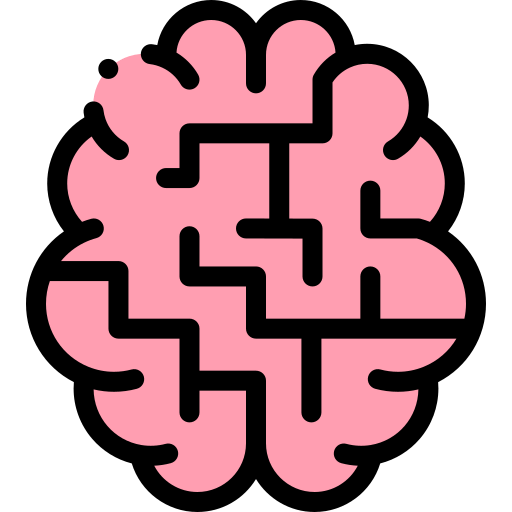
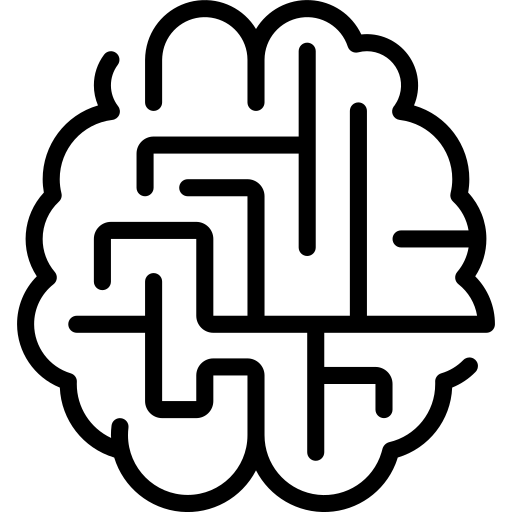
new services section

diff --git a/src/components/Service.tsx b/src/components/Service.tsx
@@ -1,0 +1,109 @@
+import React, { useState } from "react";
+import "../style/Components.css";
+
+interface Service {
+  image: string;
+  title: string;
+  text: string;
+  black: boolean;
+  from: number;
+  features: string[];
+}
+
+const Service: React.FC<Service> = ({
+  image,
+  from,
+  black,
+  features,
+  text,
+  title,
+}) => {
+  const [seeMoreDropDown, setSeeMoreDropDown] = useState(false);
+
+  return (
+    <div className={` ${black ? "text-gray-200" : "text-gray-800"}`}>
+      <img
+        className={`max-w-[20ch] mx-auto mt-20 transition-all duration-300 ${
+          seeMoreDropDown ? "max-w-[10ch]" : ""
+        }`}
+        src={image}
+        alt="webistes-landing-pages-services-icon"
+      />
+      <h1 className="text-3xl uppercase my-10 text-center font-extrabold">
+        {title}
+      </h1>
+      <p className="my-5 text-xs">{text}</p>
+      {seeMoreDropDown ? (
+        <div className="see-more-div">
+          {features.map((feature: string, index: number) => (
+            <li key={index} className="flex items-center gap-2 text-xs">
+              <svg
+                xmlns="http://www.w3.org/2000/svg"
+                fill="none"
+                viewBox="0 0 24 24"
+                strokeWidth={1.5}
+                stroke="currentColor"
+                className="w-3 h-3 text-green-600"
+              >
+                <path
+                  strokeLinecap="round"
+                  strokeLinejoin="round"
+                  d="M9 12.75L11.25 15 15 9.75M21 12a9 9 0 11-18 0 9 9 0 0118 0z"
+                />
+              </svg>
+              {feature}
+            </li>
+          ))}
+          <p className="my-3 text-sm">
+            From <span className="font-bold">{from}AUD</span>
+          </p>
+        </div>
+      ) : (
+        ""
+      )}
+      <div
+        className={`left-0 h-36 ${
+          black ? "bg-black" : "bg-white"
+        } px-20 bottom-0 absolute w-full`}
+      >
+        {seeMoreDropDown ? (
+          <div className="flex gap-20">
+            <button
+              onClick={() => setSeeMoreDropDown(!seeMoreDropDown)}
+              className={`py-2 w-full px-4 border transition-all duration-300 active:scale-95 ${
+                black
+                  ? "border-white hover:bg-white hover:text-black"
+                  : "border-black hover:bg-black hover:text-white"
+              }`}
+            >
+              {seeMoreDropDown ? "See Less" : "See More"}
+            </button>
+            <button
+              onClick={() => setSeeMoreDropDown(!seeMoreDropDown)}
+              className={`py-2 w-full px-4 border transition-all duration-300 active:scale-95 ${
+                black
+                  ? "border-white hover:bg-white hover:text-black"
+                  : "border-black hover:bg-black hover:text-white"
+              }`}
+            >
+              Contact Me
+            </button>
+          </div>
+        ) : (
+          <button
+            onClick={() => setSeeMoreDropDown(!seeMoreDropDown)}
+            className={`py-2 w-full px-4 border transition-all duration-300 active:scale-95 ${
+              black
+                ? "border-white hover:bg-white hover:text-black"
+                : "border-black hover:bg-black hover:text-white"
+            }`}
+          >
+            {seeMoreDropDown ? "See Less" : "See More"}
+          </button>
+        )}
+      </div>
+    </div>
+  );
+};
+
+export default Service;

diff --git a/src/components/Sections/Services.tsx b/src/components/Sections/Services.tsx
@@ -4,7 +4,7 @@ import React from "react";
 import "../../style/Components.css";
 
 // Components
-import PricingCard from "../PricingCard";
+import Service from "../Service";
 
 // Media
 import rubik from "../../resources/rubik.png";
@@ -14,27 +14,37 @@ const Services: React.FC = () => {
   return (
     <div
       id="services"
-      className="relative flex flex-col lg:flex-row min-h-screen w-full"
+      className="relative flex flex-col lg:flex-row h-screen w-full"
     >
-      <p className="absolute w-full text-center mt-10 text-5xl font-extrabold uppercase services-text">
+      <p className="absolute w-full text-center mt-10 font-extrabold uppercase services-text">
         Services
       </p>
-      <div className="w-full lg:w-1/2 bg-black min-h-screen pt-24 pb-10 p-5 lg:p-20">
-        <PricingCard
+      <div className="w-full relative lg:w-1/2 bg-black min-h-screen pt-24 pb-10 p-5 lg:p-20">
+        <Service
           image={rubik}
+          from={890}
           title="Websites and Landing pages"
+          black={true}
           features={[
             "Landing Pages",
             "For small businesses",
             "Start-ups",
             "Single Page Applications",
           ]}
-          text="Start your online presence with our Basic Tier, perfect for creating user-friendly websites and eye-catching landing pages."
+          text="Begin establishing your online presence with
+           a stunning landing page, a single-page web application,
+            or a comprehensive website featuring multiple views to
+             elegantly showcase your products and services. I craft
+              websites from the ground up, leveraging my proven
+               infrastructure to deliver visually captivating, 
+               high-speed, cost-effective, and entirely customized solutions."
         />
       </div>
-      <div className="w-full lg:w-1/2 bg-white h-screen p-5 lg:p-20">
-        <PricingCard
+      <div className="w-full relative lg:w-1/2 bg-white min-h-screen p-5 lg:p-20">
+        <Service
           image={brain}
+          from={1390}
+          black={false}
           title="Custom Solutions"
           features={[
             "Project Management Tools",
@@ -42,7 +52,10 @@ const Services: React.FC = () => {
             "Customer Relationship Management(CRM)",
             "Document Management Systems(DMS)",
           ]}
-          text="Push further your productivity and highlight your growing business over the competence."
+          text="Elevate your business and organization by developing
+           custom software applications tailored to your unique needs
+            and demands. Enhance productivity, streamline client management,
+             and envision the features that can simplify your work—I'll bring them to life."
         />
       </div>
     </div>

diff --git a/src/components/Layout/Footer.tsx b/src/components/Layout/Footer.tsx
@@ -4,26 +4,35 @@ const Footer: React.FC = () => {
   return (
     <footer className="w-full bottom-0 flex justify-between items-center py-2 px-8 md:px-24 text-xs text-sky-200 bg-sky-800">
       <p className="flex items-center">© mancube copyright </p>
-      <div className="flex flex-col ">
-        <p className="mb-2">Credits</p>
-        <a href="https://www.flaticon.com/free-icons/rubik" title="Rubik icons">
-          Rubik icons created by Freepik - Flaticon
-        </a>
-        <a href="https://www.flaticon.com/free-icons/maze" title="maze icons">
-          Maze icons created by Freepik - Flaticon
-        </a>
-        <a href="https://www.flaticon.com/free-icons/goal" title="goal icons">
-          Goal icons created by herikus - Flaticon
-        </a>
-        <a
-          href="https://www.flaticon.com/free-icons/efficiency"
-          title="efficiency icons"
-        >
-          Efficiency icons created by srip - Flaticon
-        </a>
-        <a href="https://www.flaticon.com/free-icons/brain" title="brain icons">
-          Brain icons created by Smashicons - Flaticon
-        </a>
+      <div className="flex">
+        <div>
+          <a
+            href="https://www.flaticon.com/free-icons/rubik"
+            title="Rubik icons"
+          >
+            Rubik icons created by Freepik - Flaticon
+          </a>
+          <a href="https://www.flaticon.com/free-icons/maze" title="maze icons">
+            Maze icons created by Freepik - Flaticon
+          </a>
+        </div>
+        <div>
+          <a href="https://www.flaticon.com/free-icons/goal" title="goal icons">
+            Goal icons created by herikus - Flaticon
+          </a>
+          <a
+            href="https://www.flaticon.com/free-icons/efficiency"
+            title="efficiency icons"
+          >
+            Efficiency icons created by srip - Flaticon
+          </a>
+          <a
+            href="https://www.flaticon.com/free-icons/brain"
+            title="brain icons"
+          >
+            Brain icons created by Smashicons - Flaticon
+          </a>
+        </div>
       </div>
     </footer>
   );

diff --git a/src/components/Layout/SideNavbar.tsx b/src/components/Layout/SideNavbar.tsx
@@ -44,10 +44,10 @@ const SideNavbar = () => {
   }, []);
 
   return (
-    <div className="hidden sm:flex h-screen bg-sky-950 flex flex-col fixed left-0 w-20 py-44 justify-between items-center">
+    <div className="hidden sm:flex h-screen bg-sky-900 flex flex-col fixed left-0 w-20 py-44 justify-between items-center">
       <a
         className={`${
-          activeSection === "introduction" ? "bg-sky-800 p-2" : "p-4"
+          activeSection === "introduction" ? "bg-sky-700 p-2" : "p-4"
         } transition-all duration-300 rounded-md`}
         href="#introduction"
       >
@@ -69,7 +69,7 @@ const SideNavbar = () => {
 
       <a
         className={`${
-          activeSection === "experience" ? "bg-sky-800 p-2" : "p-4"
+          activeSection === "experience" ? "bg-sky-700 p-2" : "p-4"
         } transition-all duration-300 rounded-md`}
         href="#experience"
       >
@@ -90,7 +90,7 @@ const SideNavbar = () => {
       </a>
       <a
         className={`${
-          activeSection === "services" ? "bg-sky-800 p-2" : "p-4"
+          activeSection === "services" ? "bg-sky-700 p-2" : "p-4"
         } transition-all duration-300 rounded-md`}
         href="#services"
       >

diff --git a/src/style/Components.css b/src/style/Components.css
@@ -45,12 +45,7 @@
 @media screen and (min-width: 1100px) {
   #experience-section-title {
     font-size: 3ch;
-  }
-}
-
-@media screen and (min-width: 1268px) {
-  #experience-section-title {
-    font-size: 4ch;
+    padding: 40px 0;
   }
 }
 
@@ -67,8 +62,10 @@
 }
 
 /* Services */
+
 .services-text {
   position: absolute;
+  font-size: 4ch;
   background: linear-gradient(90deg, white 50%, black 50%);
   background-clip: text;
   color: transparent;

diff --git a/src/style/index.css b/src/style/index.css
@@ -51,7 +51,7 @@ code {
 /* Languages descriptions */
 .language-hover-description p {
   position: absolute;
-  top: 3.5ch;
+  top: 4.5ch;
   z-index: 2;
   border-radius: 10px;
   display: none;
@@ -126,7 +126,6 @@ code {
     transform: translateY(5px);
   }
 }
-
 
 @media screen and (max-width: 400px) {
   #skill-features span {

diff --git a/src/containers/Dashboard.tsx b/src/containers/Dashboard.tsx
@@ -14,7 +14,7 @@ const Dashboard: React.FC = () => {
   return (
     <div className="text-white relative">
       <SideNavbar />
-      <div className="sm:ml-20 pb-20 bg-gray-50 overflow-hidden">
+      <div className="sm:ml-20 bg-gray-50 overflow-hidden">
         <Header />
         <Introduction />
         <Experience />

diff --git a/src/components/Sections/Experience.tsx b/src/components/Sections/Experience.tsx
@@ -5,7 +5,7 @@ import "../../style/Components.css";
 
 // Components
 import Project from "../Project";
-import HorizontalProject from "../HorizontalProject";
+
 // Media
 import skualo from "../../resources/skualo.png";
 import mm from "../../resources/mm.png";
